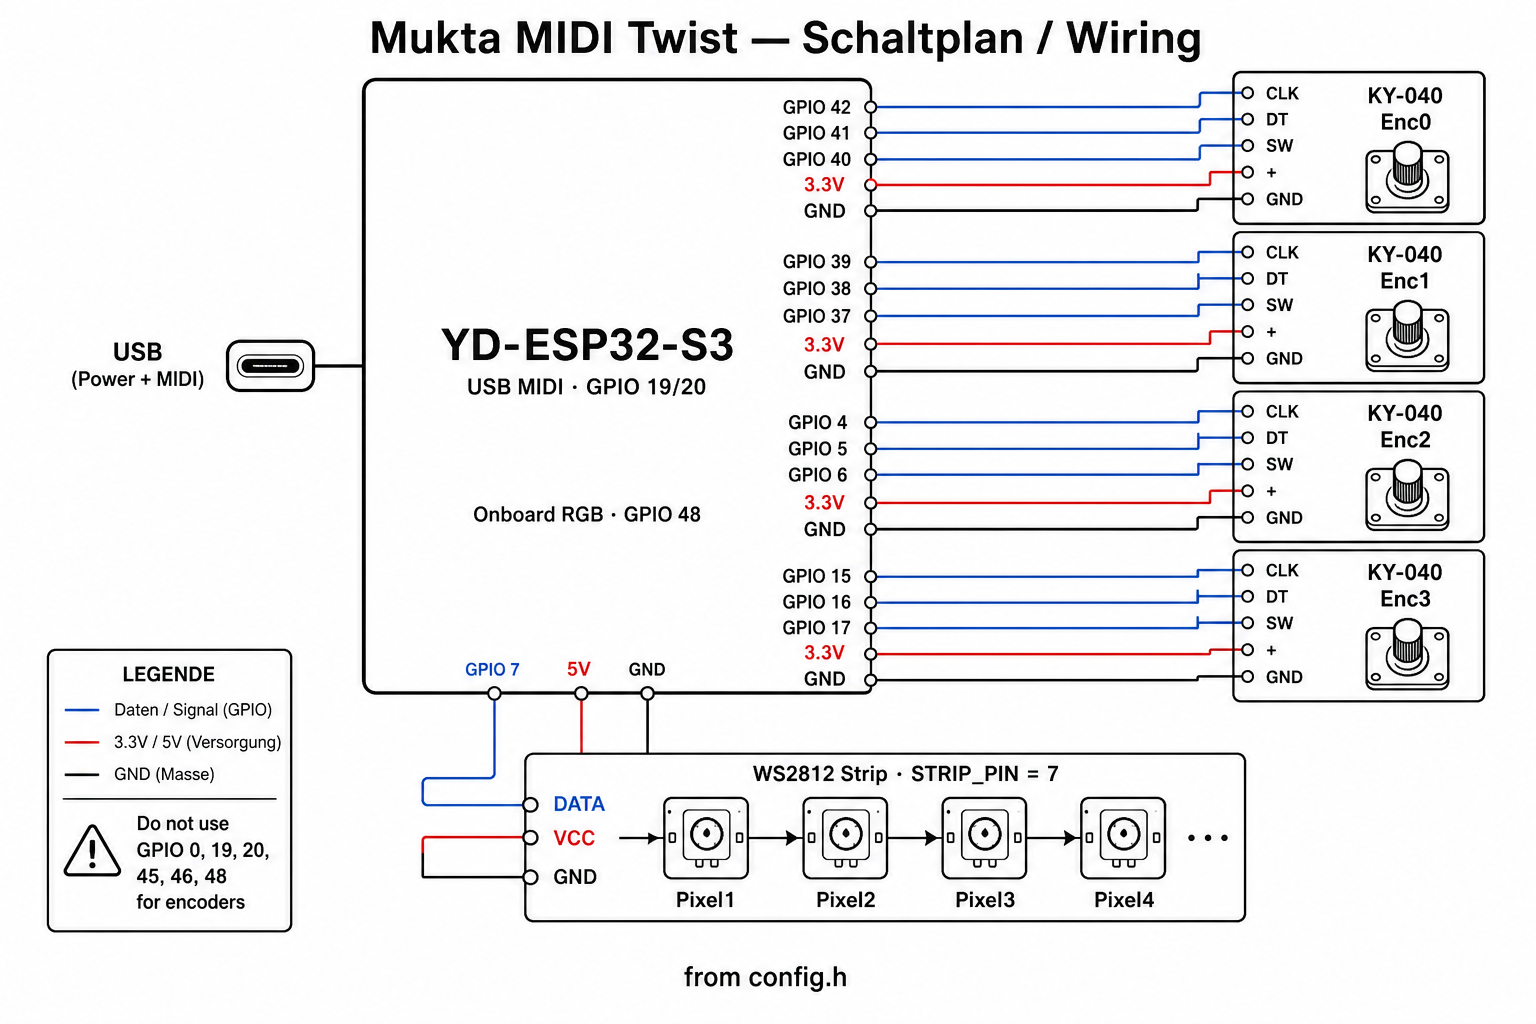
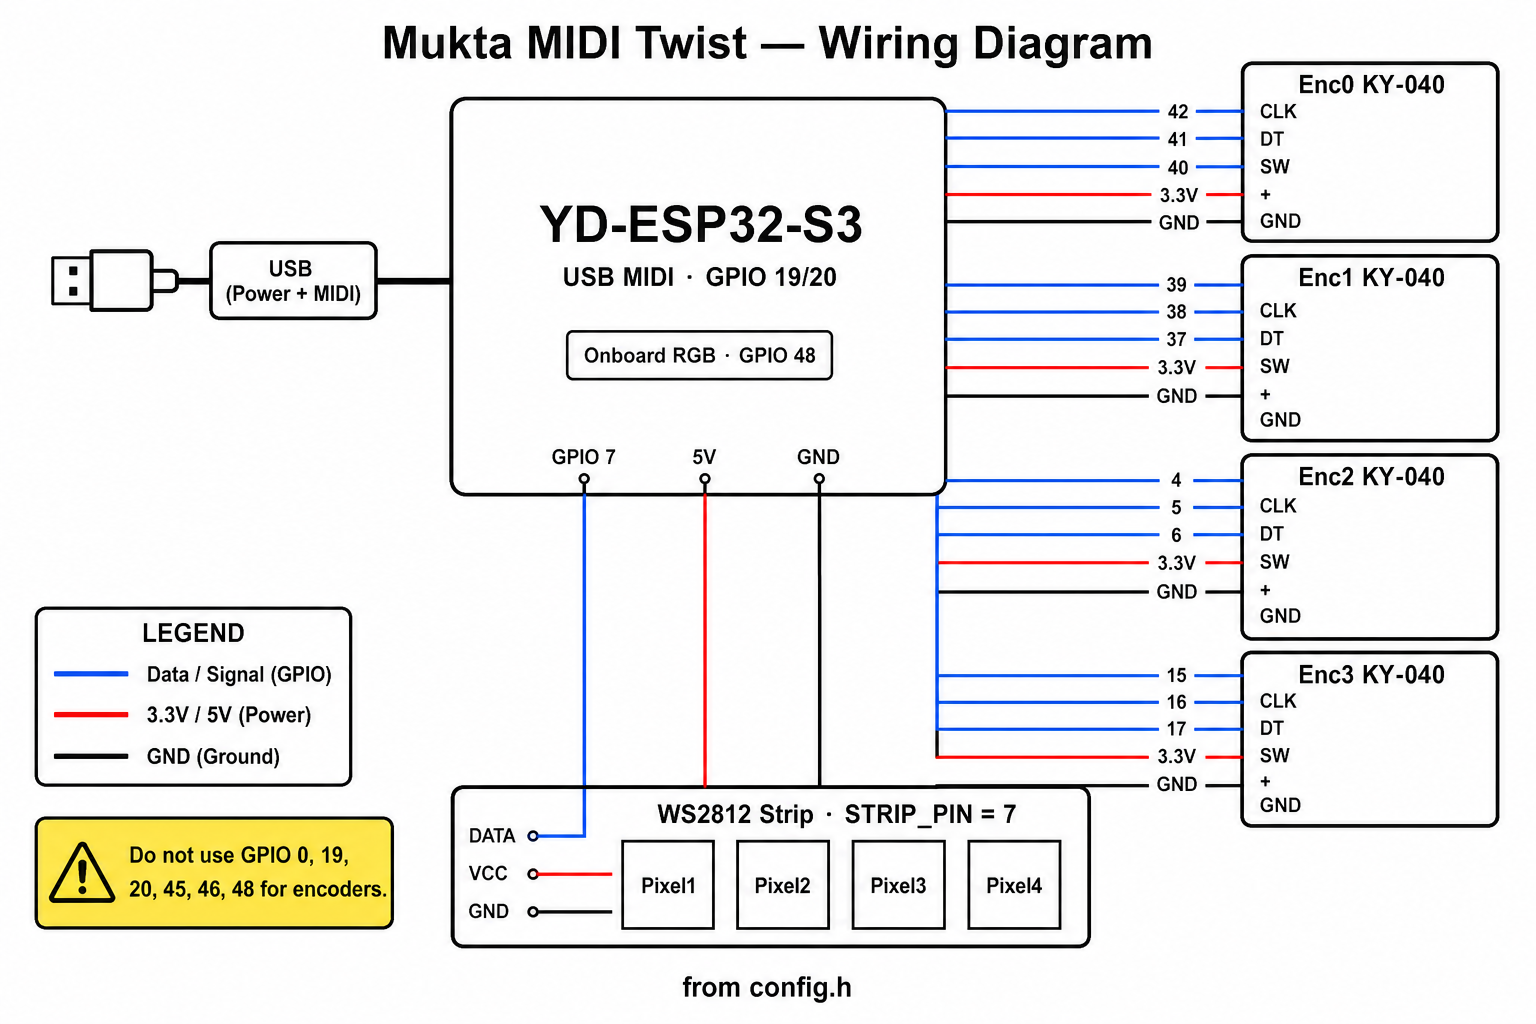
Replace wiring diagram with fully English version.
Regenerate the schematic labels in English and verify pin assignments against config.h.

Changed region(s): [[0.0, 0.0, 1.0, 1.0], [0.0625, 0.2188, 0.0938, 0.25]]

diff --git a/README.de.md b/README.de.md
@@ -55,7 +55,7 @@ Zielboard: **YD-ESP32-S3** (VCC-GND Studio) oder jedes **ESP32S3 Dev Module** mi
 ### Schaltplan / Verdrahtung (aktuelles `config.h`)
 
 <p align="center">
-  <img src="image/mukta-midi-twist-schaltplan.png" alt="Mukta MIDI Twist Schaltplan" width="720">
+  <img src="image/mukta-midi-twist-schaltplan.png" alt="Mukta MIDI Twist wiring diagram" width="720">
 </p>
 
 | Signal | Enc 0 | Enc 1 | Enc 2 | Enc 3 |
